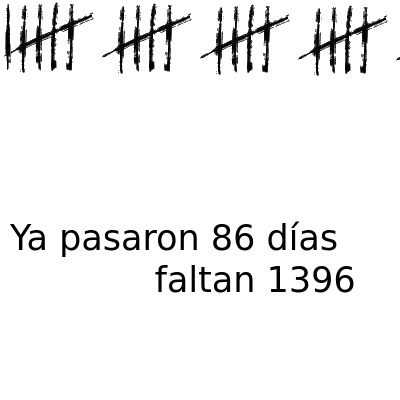
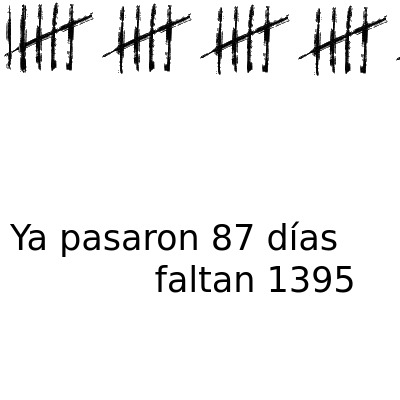
deploy: 28882f26f23b9f53dac6c4991168e610486d0e44

Changed region(s): [[0.0, 0.0, 0.09, 0.18], [0.57, 0.54, 0.63, 0.63], [0.84, 0.66, 0.9, 0.75]]

diff --git a/index.html b/index.html
@@ -3,19 +3,19 @@
   <head>
     <meta charset='utf-8'>
     <meta http-equiv='X-UA-Compatible' content='IE=edge'>
-    <title>Ya pasaron 86 días y faltan 1396</title>
-    <meta name="description" content="Ya pasaron 86 días y faltan 1396">
-    <meta itemprop="name" content="Ya pasaron 86 días y faltan 1396">
-    <meta itemprop="description" content="Ya pasaron 86 días y faltan 1396">
+    <title>Ya pasaron 87 días y faltan 1395</title>
+    <meta name="description" content="Ya pasaron 87 días y faltan 1395">
+    <meta itemprop="name" content="Ya pasaron 87 días y faltan 1395">
+    <meta itemprop="description" content="Ya pasaron 87 días y faltan 1395">
     <meta name="twitter:card" content="summary">
-    <meta name="twitter:title" content="Ya pasaron 86 días y faltan 1396">
-    <meta name="twitter:description" content="Ya pasaron 86 días y faltan 1396">
+    <meta name="twitter:title" content="Ya pasaron 87 días y faltan 1395">
+    <meta name="twitter:description" content="Ya pasaron 87 días y faltan 1395">
     <meta name="twitter:creator" content="@FloriusWasTaken">
     <meta name="twitter:image" content="https://pasaron.meme.ar/capture.png">
-    <meta property="og:title" content="Ya pasaron 86 días y faltan 1396">
-    <meta property="og:description" content="Ya pasaron 86 días y faltan 1396">
+    <meta property="og:title" content="Ya pasaron 87 días y faltan 1395">
+    <meta property="og:description" content="Ya pasaron 87 días y faltan 1395">
     <meta property="og:url" content="https://pasaron.meme.ar">
-    <meta property="og:site_name" content="Ya pasaron 86 días y faltan 1396">
+    <meta property="og:site_name" content="Ya pasaron 87 días y faltan 1395">
     <meta property="og:type" content="website">
     <meta property="og:image" content="https://pasaron.meme.ar/capture.png">
     <meta name="theme-color" content="#dc143c">
@@ -69,18 +69,18 @@
         padding: 0;
       }
     </style>
-    <title>Ya pasaron 86 días y faltan 1396</title>
+    <title>Ya pasaron 87 días y faltan 1395</title>
   </head>
   <body>
     <div id="main">
       <img src="img/5.png"/><img src="img/5.png"/><img src="img/5.png"/><img src="img/5.png"/><img src="img/5.png"/><img src="img/5.png"/><img src="img/5.png"/><img src="img/5.png"/><img src="img/5.png"/><img src="img/5.png"/><img src="img/5.png"/><img src="img/5.png"/><img src="img/5.png"/><img src="img/5.png"/><img src="img/5.png"/><img src="img/5.png"/><img src="img/5.png"/>
       
-        <img src="img/1.png"/>
+        <img src="img/2.png"/>
       
     </div>
     <footer id="footer">
       <marquee id="marquee" class="is-vertical-align">
-        Ya pasaron 86 días y faltan 1396
+        Ya pasaron 87 días y faltan 1395
       </marquee>
       <ul>
         <li>
